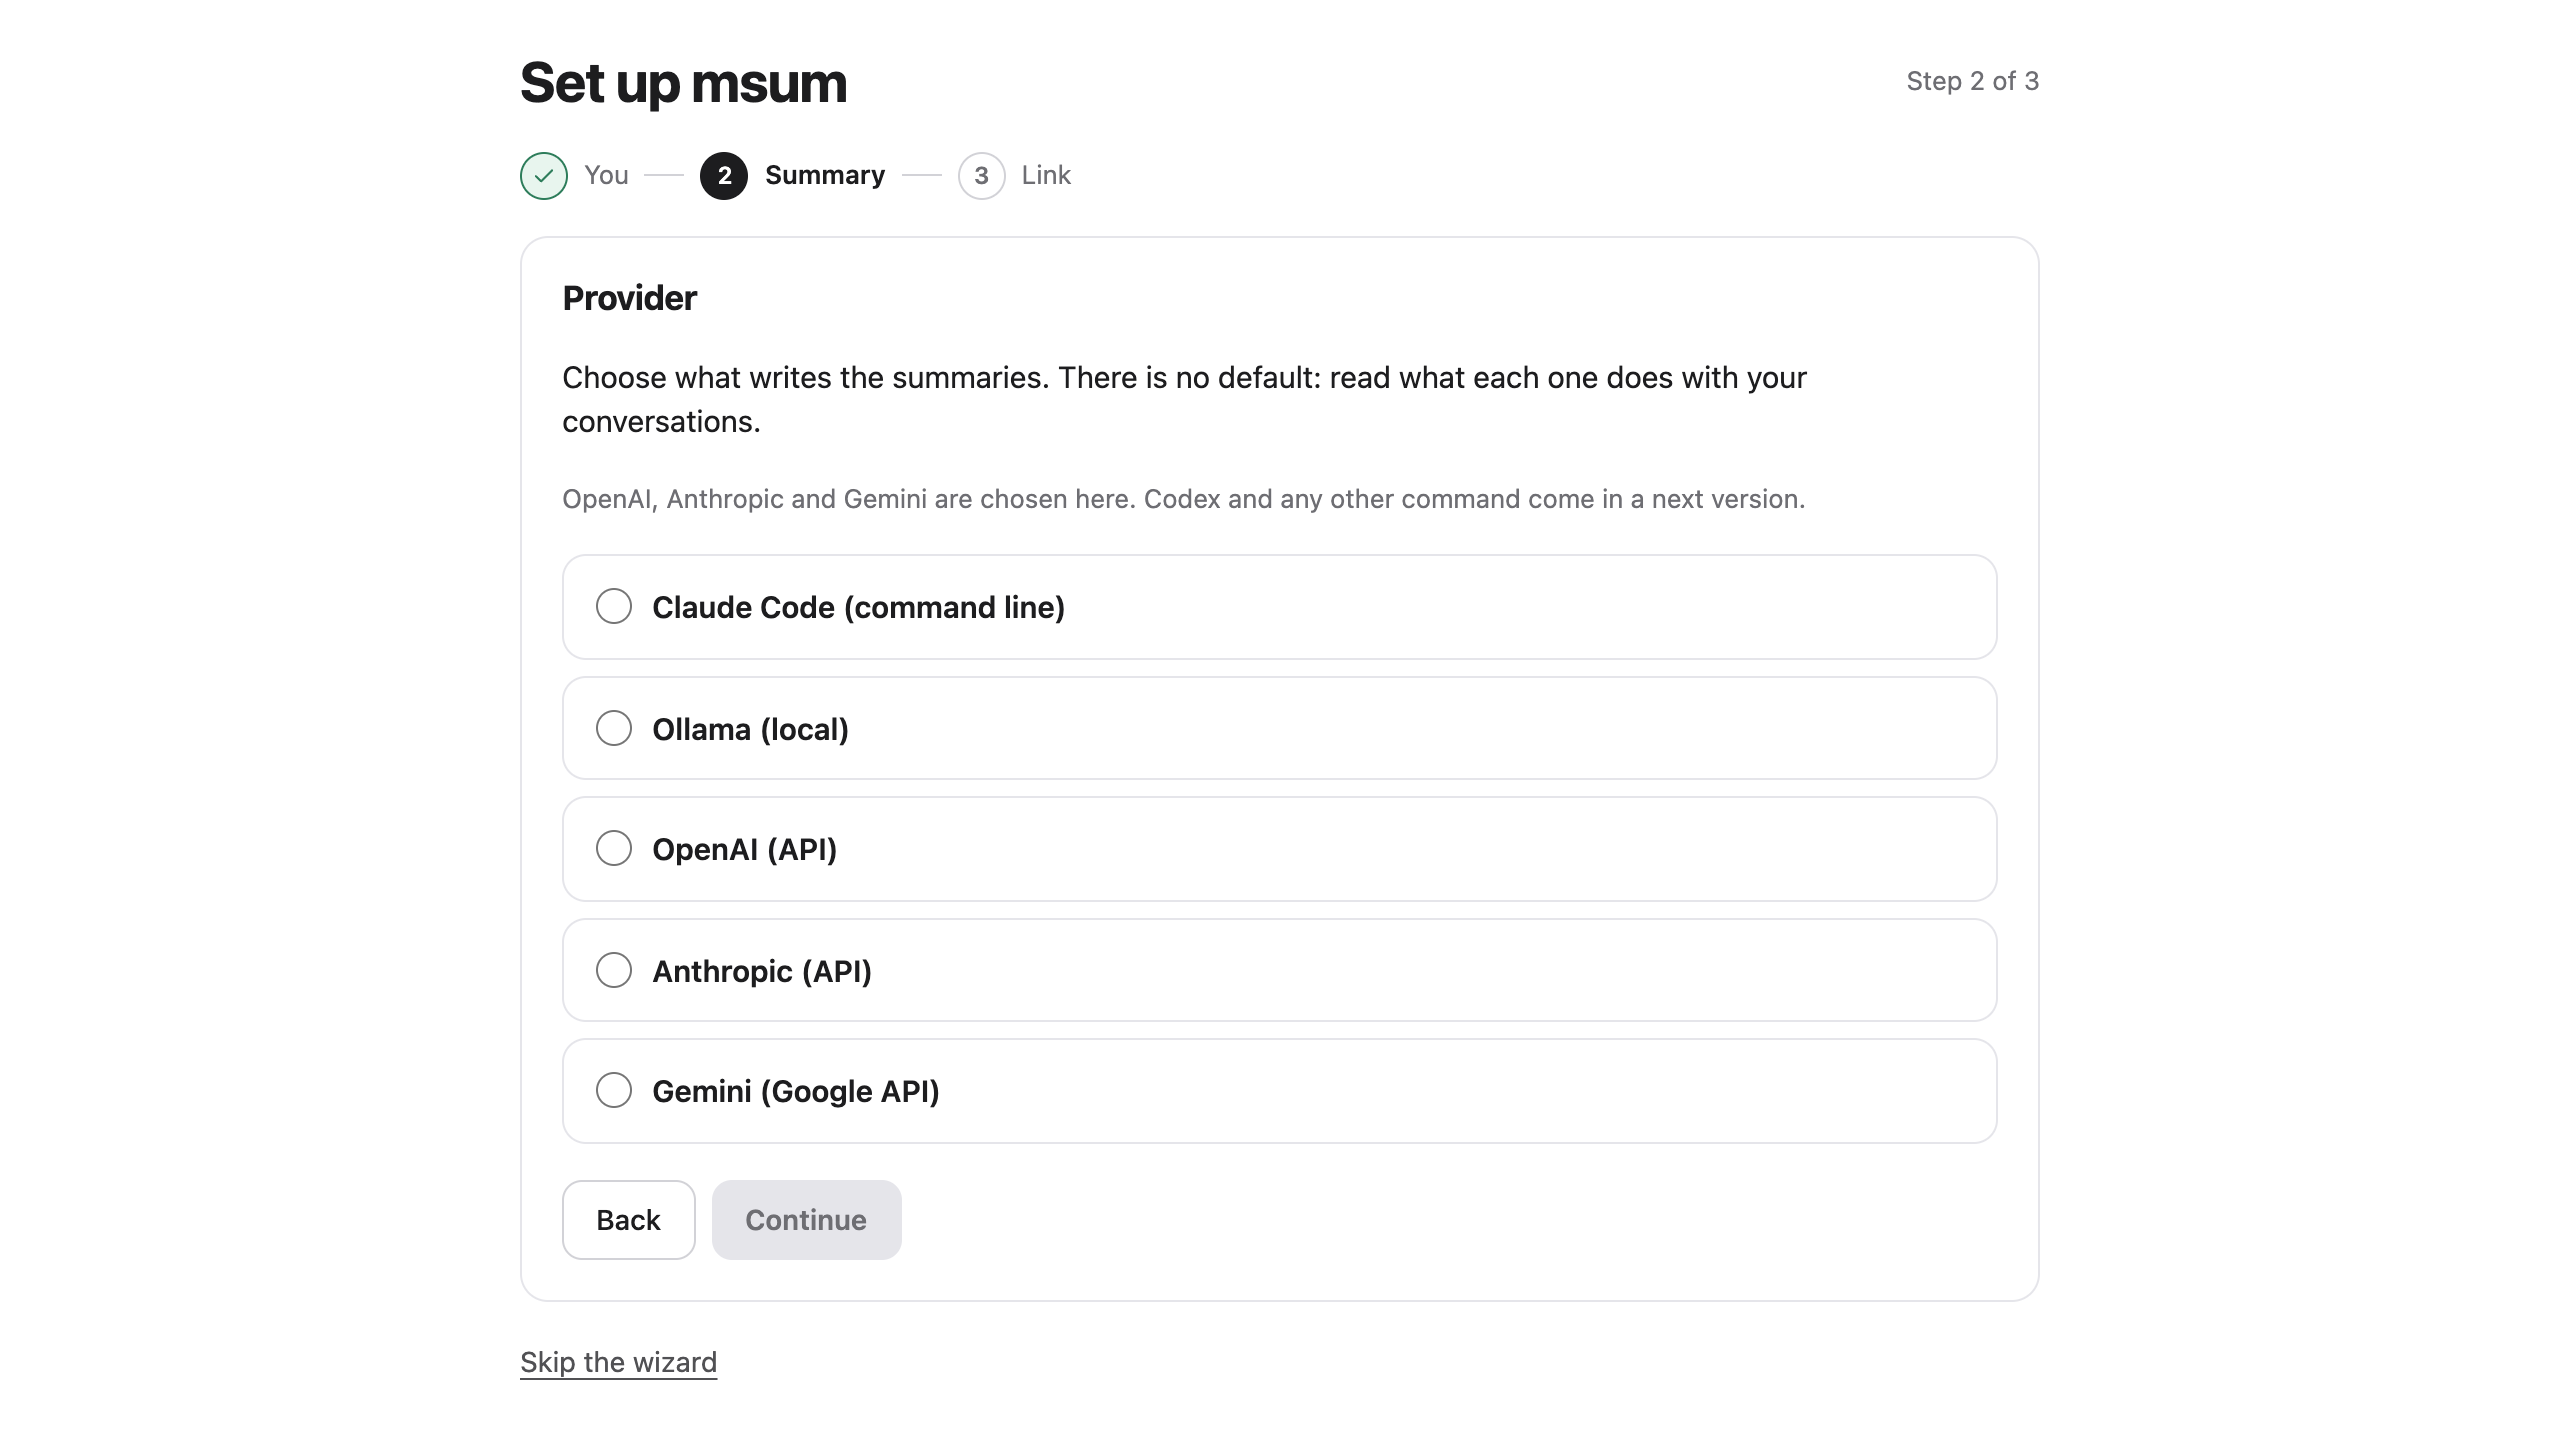
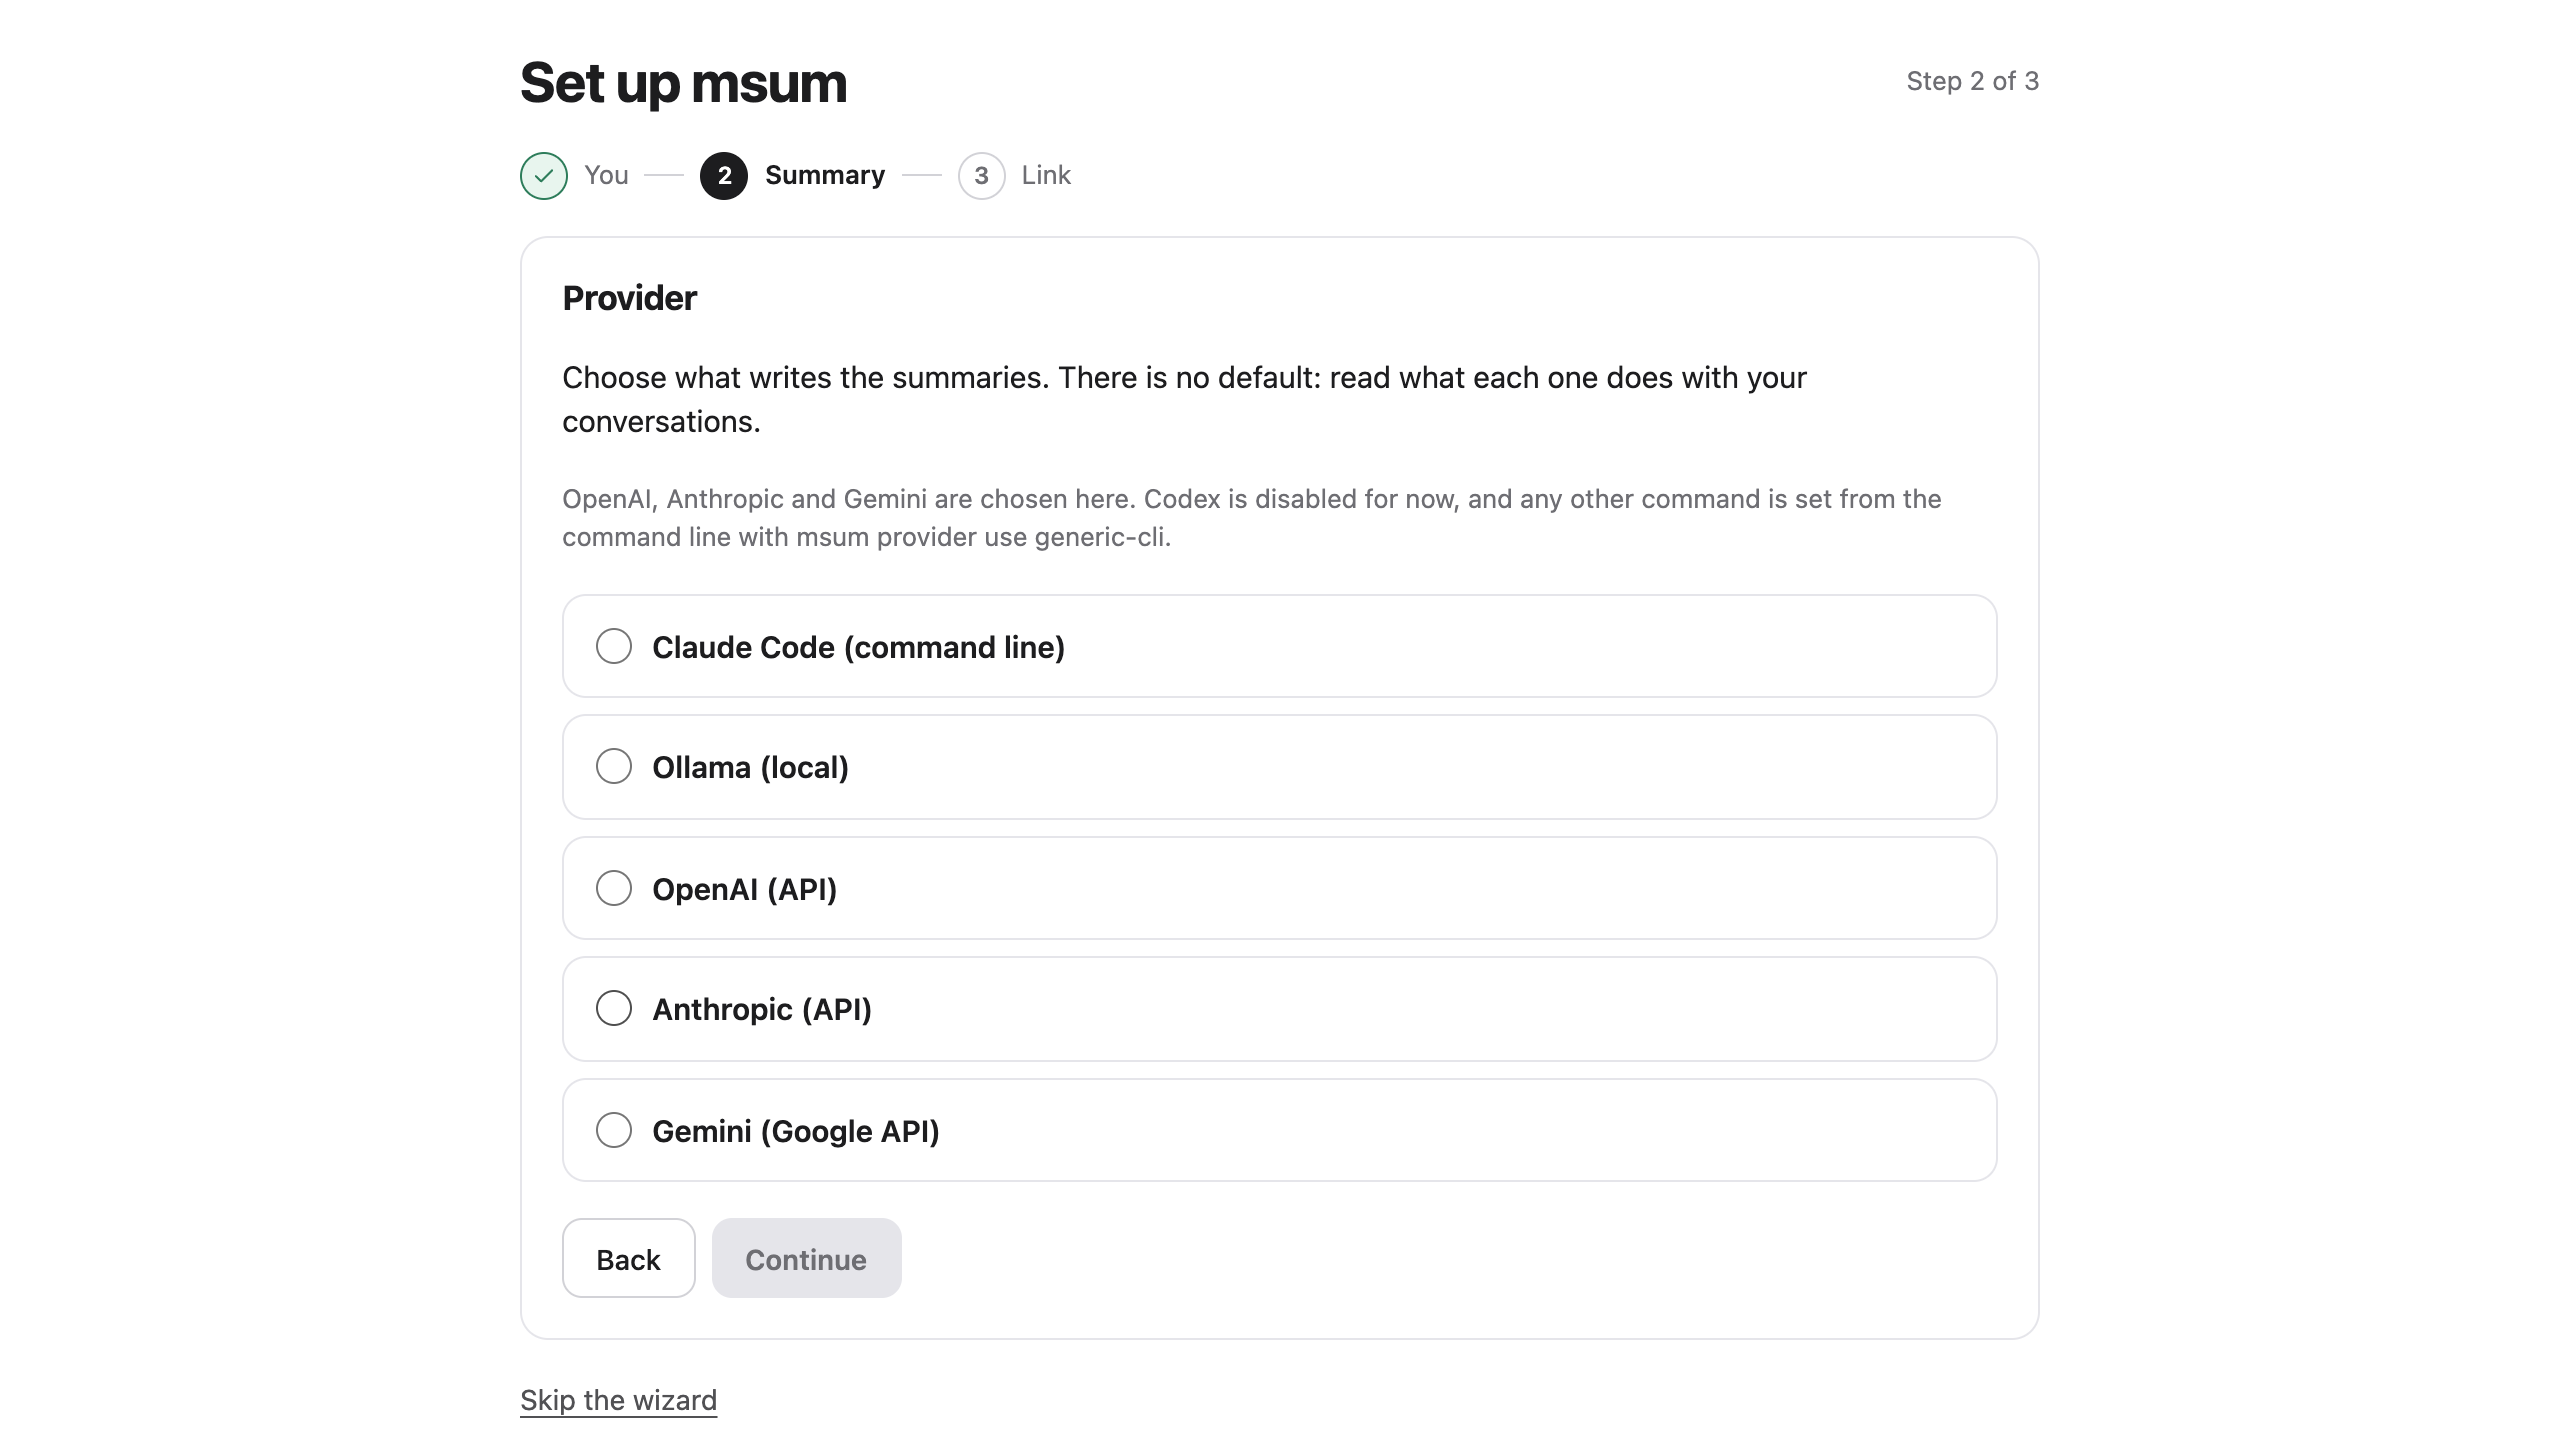
Fix the provider note of the setup wizard: Codex is disabled, other commands use generic-cli
The note said Codex and any other command would come in a next version.
Codex is disabled until its tools can be verified off (RF-49), and the
generic command already works from the command line. The wizard
screenshot is retaken with the new text.

Changed region(s): [[0.2188, 0.3438, 0.7812, 0.9062], [0.4688, 0.3438, 0.75, 0.375], [0.1875, 0.9375, 0.2812, 1.0]]

diff --git a/src/infrastructure/i18n/web-es.ts b/src/infrastructure/i18n/web-es.ts
@@ -777,7 +777,7 @@ export const webEs: WebTexts = {
         heading: 'Proveedor',
         intro: 'Elegí qué escribe los resúmenes. No hay uno por defecto: leé qué hace cada uno con tus conversaciones.',
         laterNote:
-          'OpenAI, Anthropic y Gemini se eligen acá. Codex y cualquier otro comando llegan en una próxima versión.',
+          'OpenAI, Anthropic y Gemini se eligen acá. Codex está deshabilitado por ahora, y cualquier otro comando se configura desde la línea de comandos con msum provider use generic-cli.',
         apiModelLabel: 'Modelo',
         apiModelHint: 'Los modelos salen de la lista del proveedor: no hace falta escribir nada.',
         openaiBaseUrlInvalid:

diff --git a/src/infrastructure/i18n/web-en.ts b/src/infrastructure/i18n/web-en.ts
@@ -771,7 +771,8 @@ export const webEn: WebTexts = {
         heading: 'Provider',
         intro:
           'Choose what writes the summaries. There is no default: read what each one does with your conversations.',
-        laterNote: 'OpenAI, Anthropic and Gemini are chosen here. Codex and any other command come in a next version.',
+        laterNote:
+          'OpenAI, Anthropic and Gemini are chosen here. Codex is disabled for now, and any other command is set from the command line with msum provider use generic-cli.',
         apiModelLabel: 'Model',
         apiModelHint: 'The models come from the provider list: there is nothing to type.',
         openaiBaseUrlInvalid:
